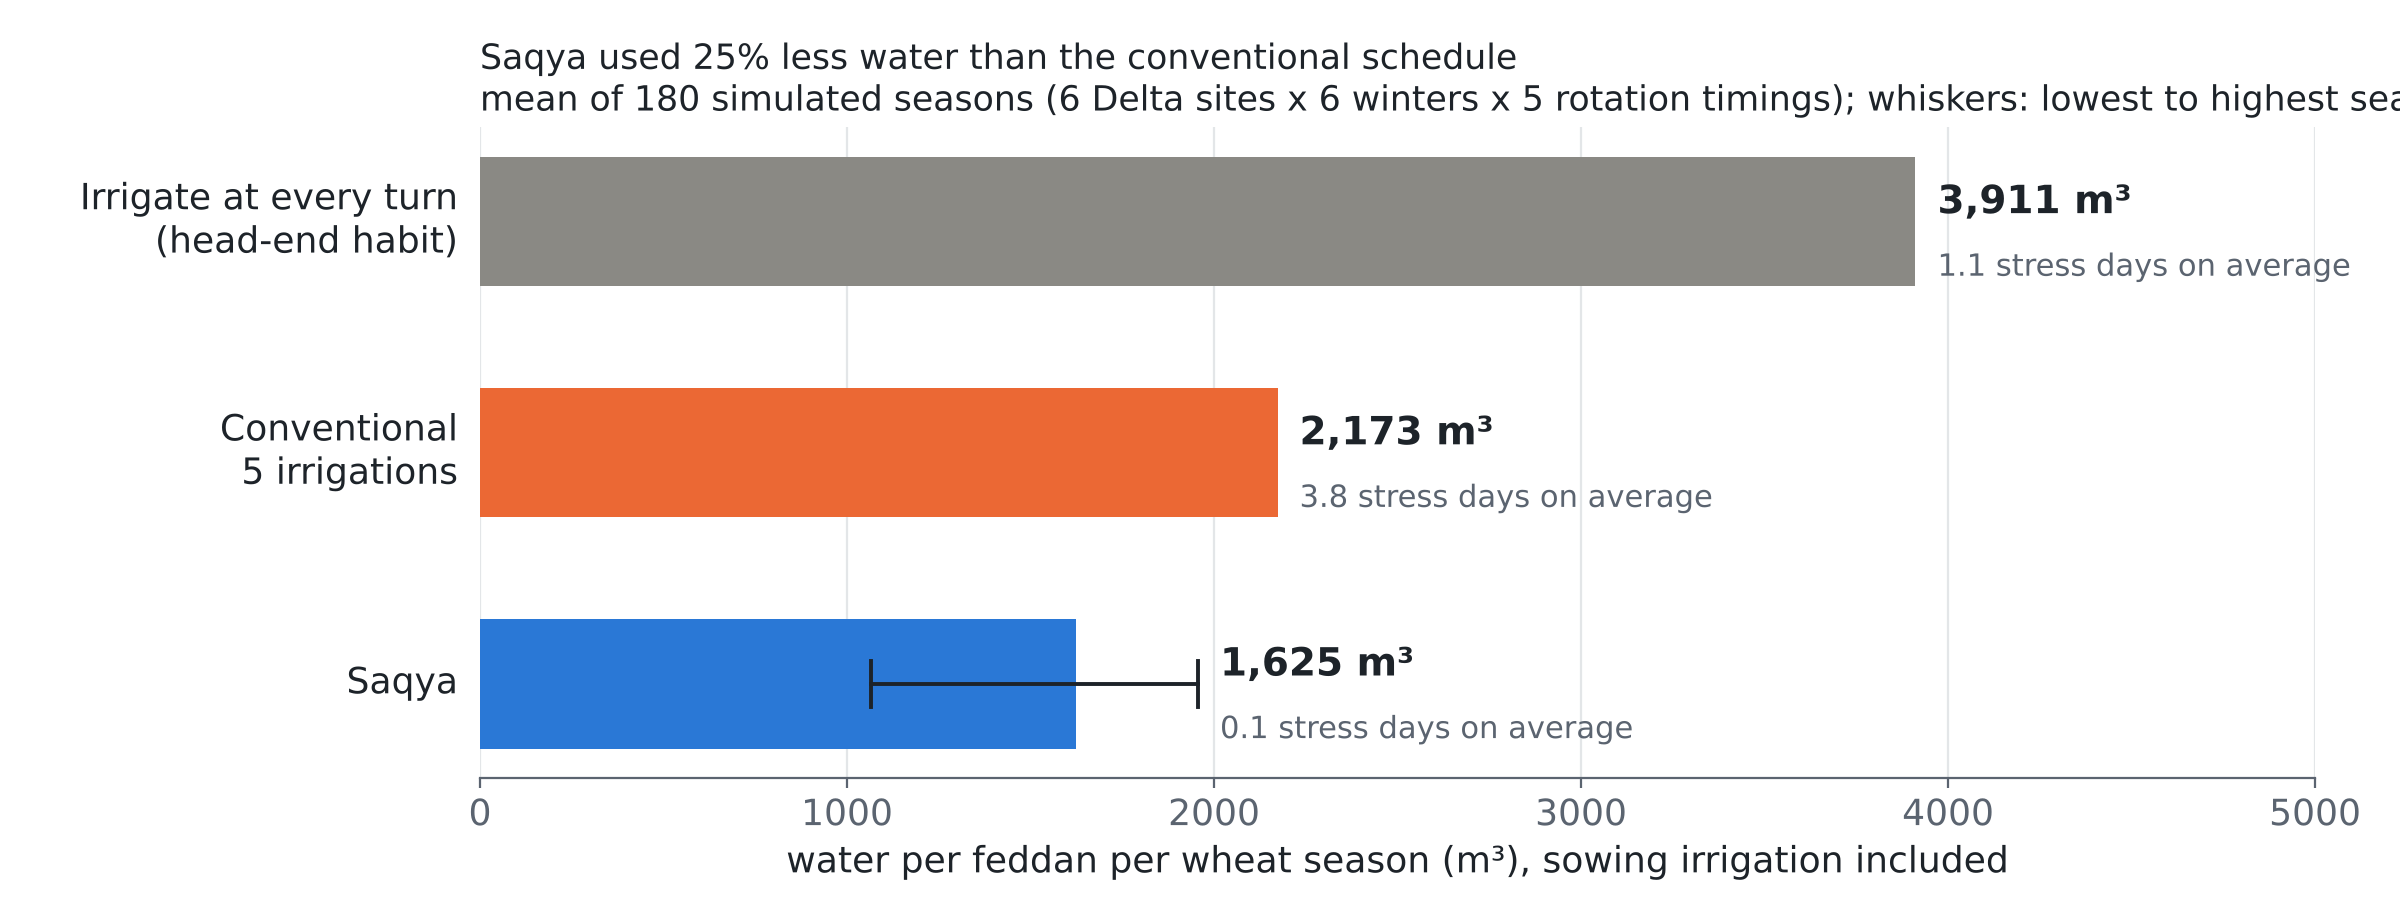
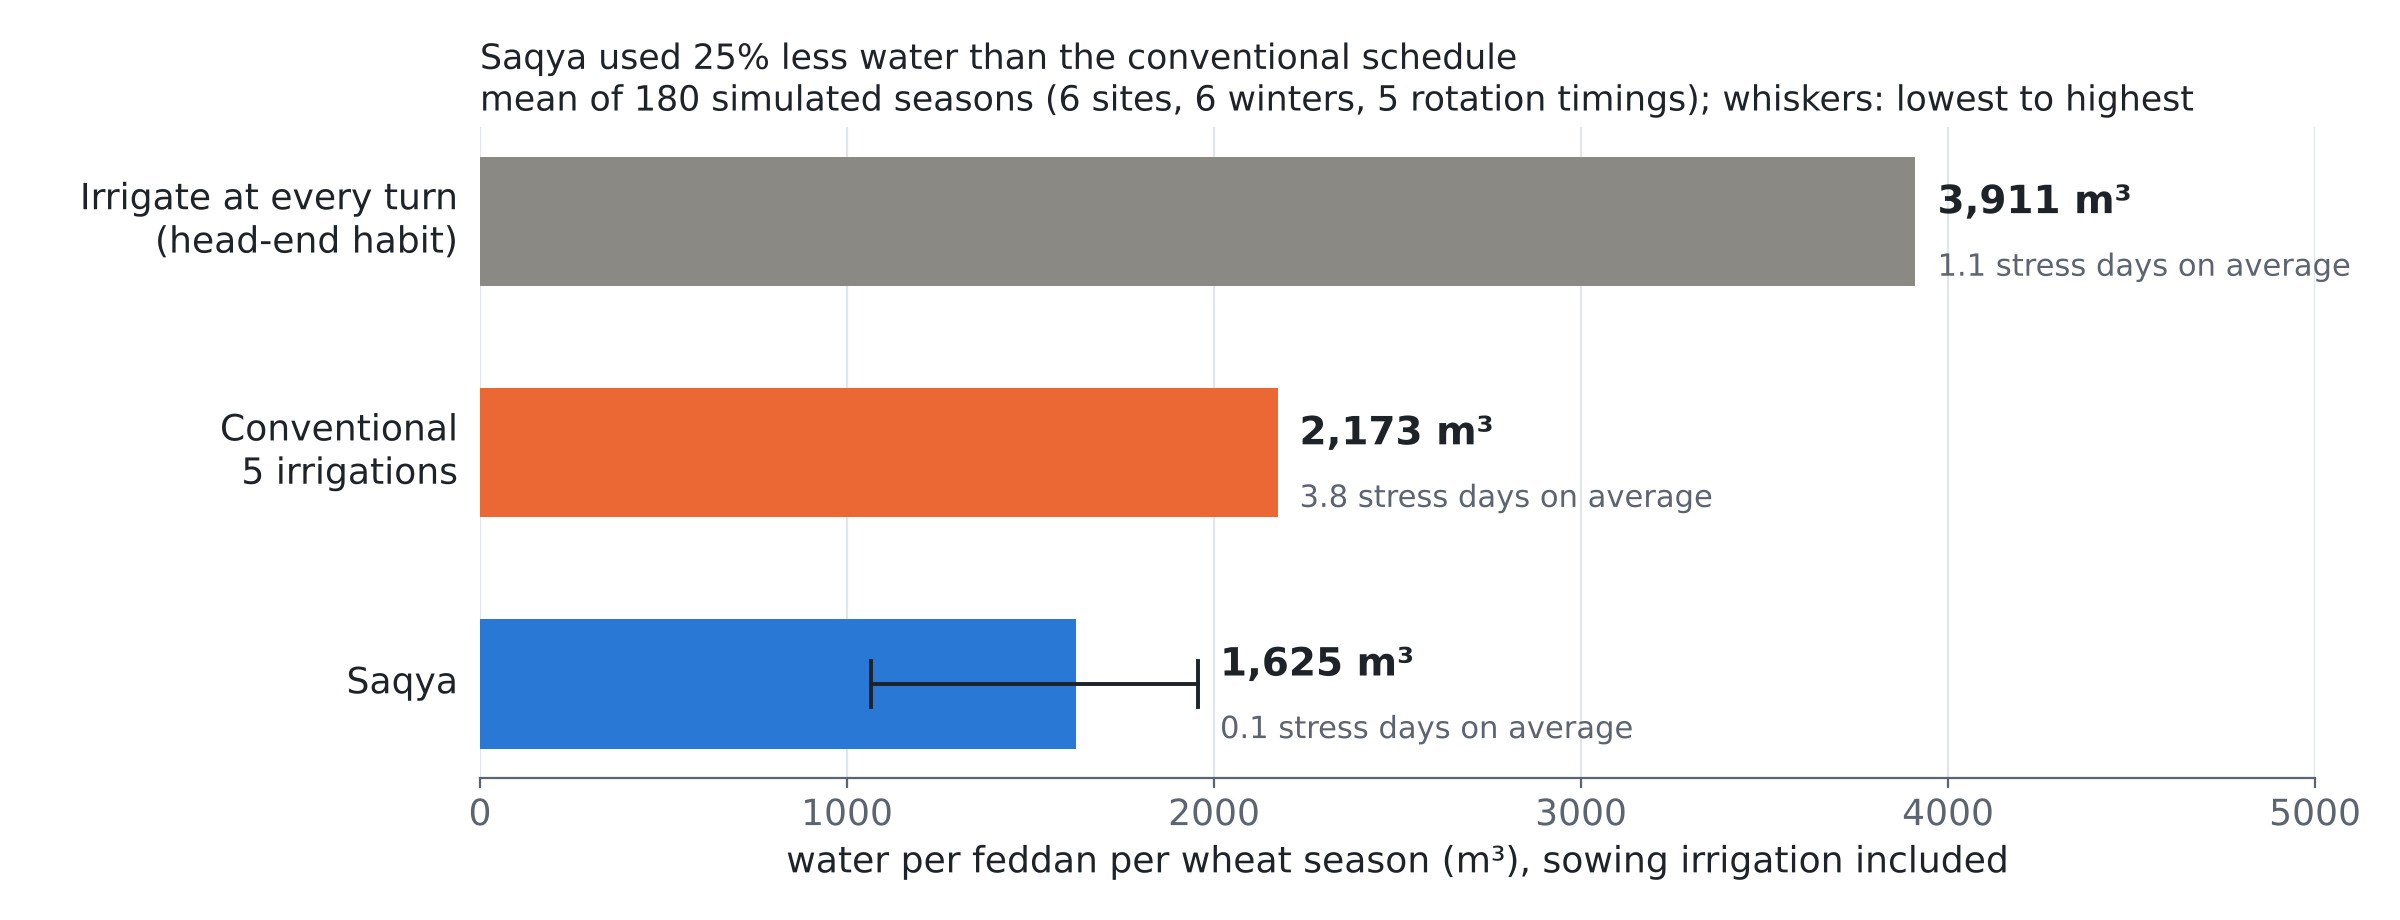
Saqya demo: saved-weather fallback, chart subtitle

Changed region(s): [[0.4375, 0.0913, 1.0, 0.1217]]

diff --git a/saqya/app.js b/saqya/app.js
@@ -68,10 +68,15 @@
 
   // ---------- weather ----------
   async function getJSON(url) {
-    const r = await fetch(url);
-    if (!r.ok) throw new Error('weather service ' + r.status);
-    return r.json();
+    const ctl = new AbortController();
+    const timer = setTimeout(() => ctl.abort(), 15000);
+    try {
+      const r = await fetch(url, { signal: ctl.signal });
+      if (!r.ok) throw new Error('weather service ' + r.status);
+      return await r.json();
+    } finally { clearTimeout(timer); }
   }
+  let usedCache = false;
   async function fetchWeather(lat, lon, startDn, endDn, todayDn, live, calibrate) {
     const map = new Map();
     const put = (j, forecastFrom) => {
@@ -85,7 +90,15 @@
     };
     const q = `latitude=${lat}&longitude=${lon}&daily=et0_fao_evapotranspiration,precipitation_sum&timezone=Africa%2FCairo`;
     if (!live) {
-      put(await getJSON(`https://archive-api.open-meteo.com/v1/archive?${q}&start_date=${S.iso(startDn)}&end_date=${S.iso(endDn)}`));
+      try {
+        put(await getJSON(`https://archive-api.open-meteo.com/v1/archive?${q}&start_date=${S.iso(startDn)}&end_date=${S.iso(endDn)}`));
+      } catch (err) {
+        // weather service unreachable: fall back to the saved 2025/26 season for Sakha if it covers the request
+        const near = Math.abs(lat - 31.10) < 0.05 && Math.abs(lon - 30.94) < 0.05;
+        if (!near || startDn < S.dnum('2025-11-01') || endDn > S.dnum('2026-06-30')) throw err;
+        put(await (await fetch('sakha_2025_26.json')).json());
+        usedCache = true;
+      }
     } else {
       if (todayDn - startDn > 92) {
         put(await getJSON(`https://archive-api.open-meteo.com/v1/archive?${q}&start_date=${S.iso(startDn)}&end_date=${S.iso(todayDn - 93)}`));
@@ -311,7 +324,8 @@
       if (estimated > 0 && mode === 'live') why += ` Days beyond the 16-day forecast are estimated from its last days.`;
       $('why').textContent = why;
       drawChart(f, rot, hist, plan, st.todayDn, futWith, futWithout);
-      $('status').textContent = `Weather for ${st.place[0]} loaded (${mode === 'live' ? 'live forecast' : 'replay of real weather'}).`;
+      $('status').textContent = `Weather for ${st.place[0]} loaded (${mode === 'live' ? 'live forecast' : (usedCache ? 'replay, saved copy of the real weather' : 'replay of real weather')}).`;
+      usedCache = false;
     } catch (err) {
       $('status').textContent = err.message;
     } finally {
